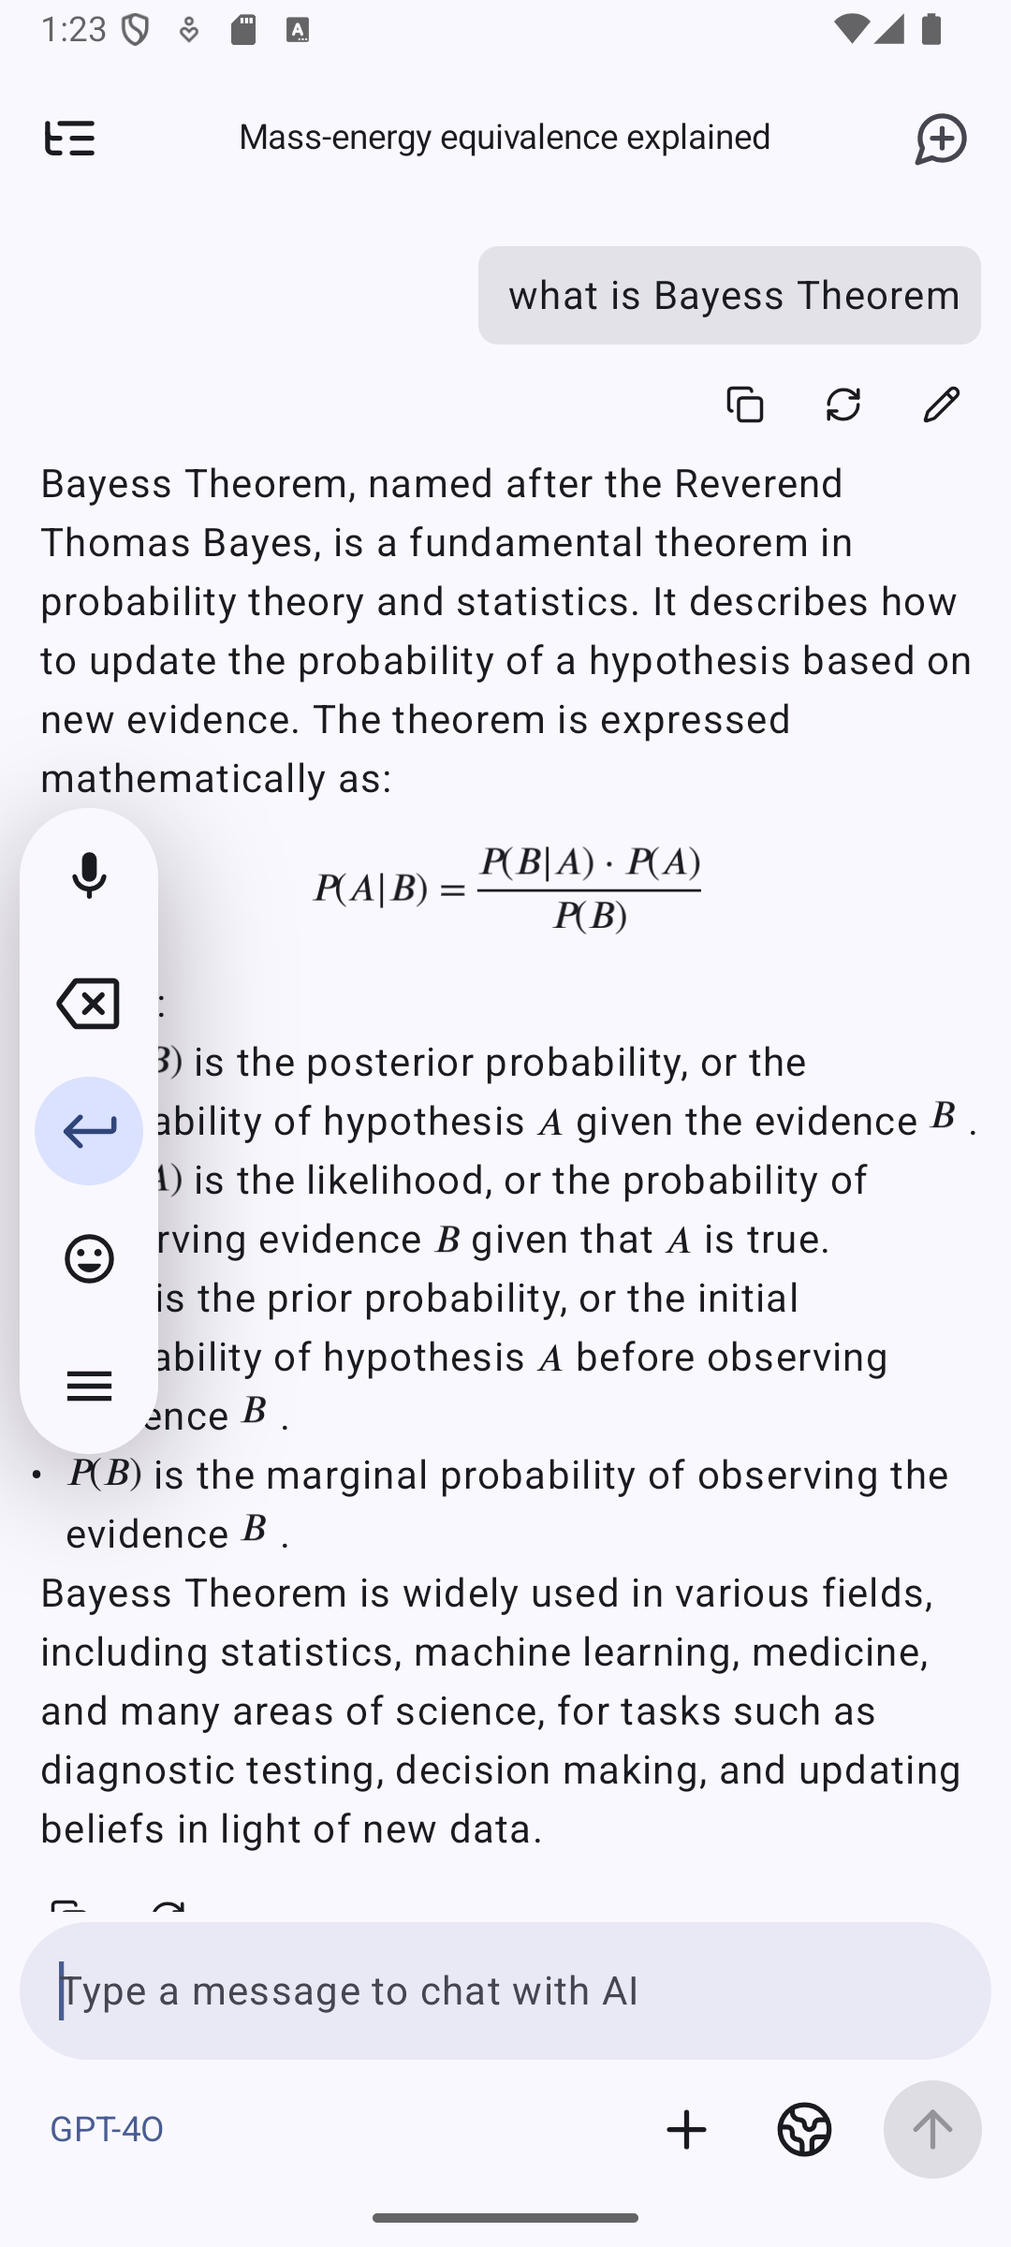
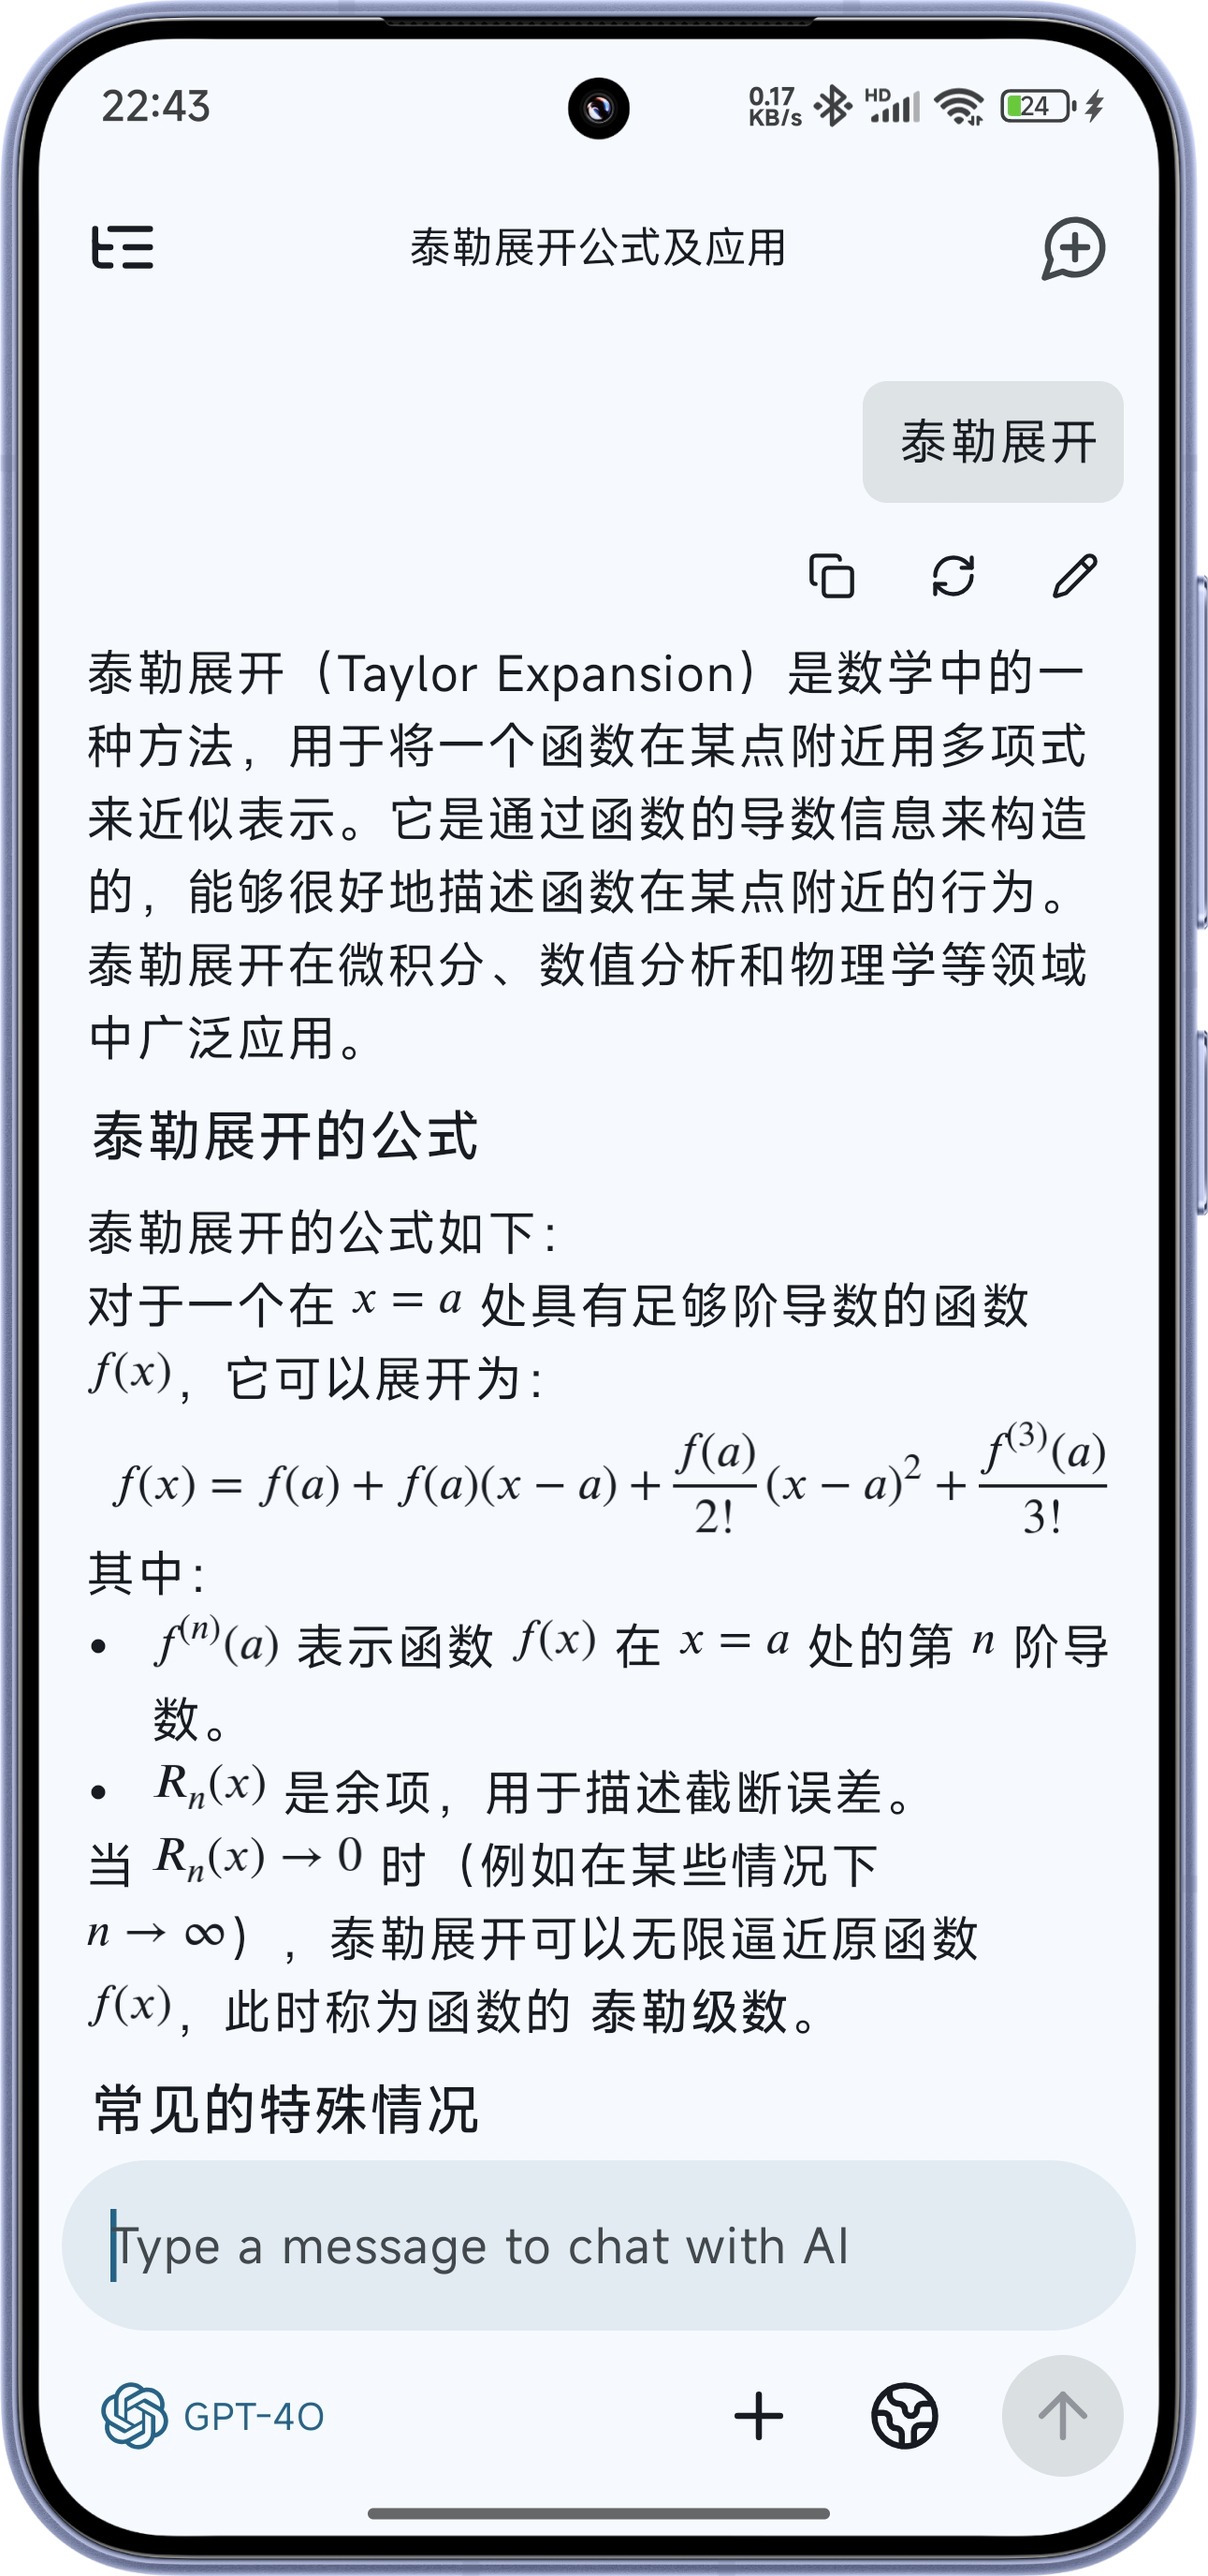
docs: update README images and improve chat interface representation

Changed region(s): [[0.0, 0.0, 1.0, 1.0], [0.6722, 0.8438, 0.7028, 0.875]]

diff --git a/README.md b/README.md
@@ -6,8 +6,9 @@
 
 <div>
   <img src="docs/img/chat.png" alt="聊天界面" width="150" />
-  <img src="docs/img/provider.png" alt="供应商选择" width="150" />
+  <img src="docs/img/chat_img.png" alt="多模态聊天界面" width="150" />
   <img src="docs/img/setting.png" alt="设置界面" width="150" />
+  <img src="docs/img/provider.png" alt="供应商选择" width="150" />
 </div>
 
 ## 功能
